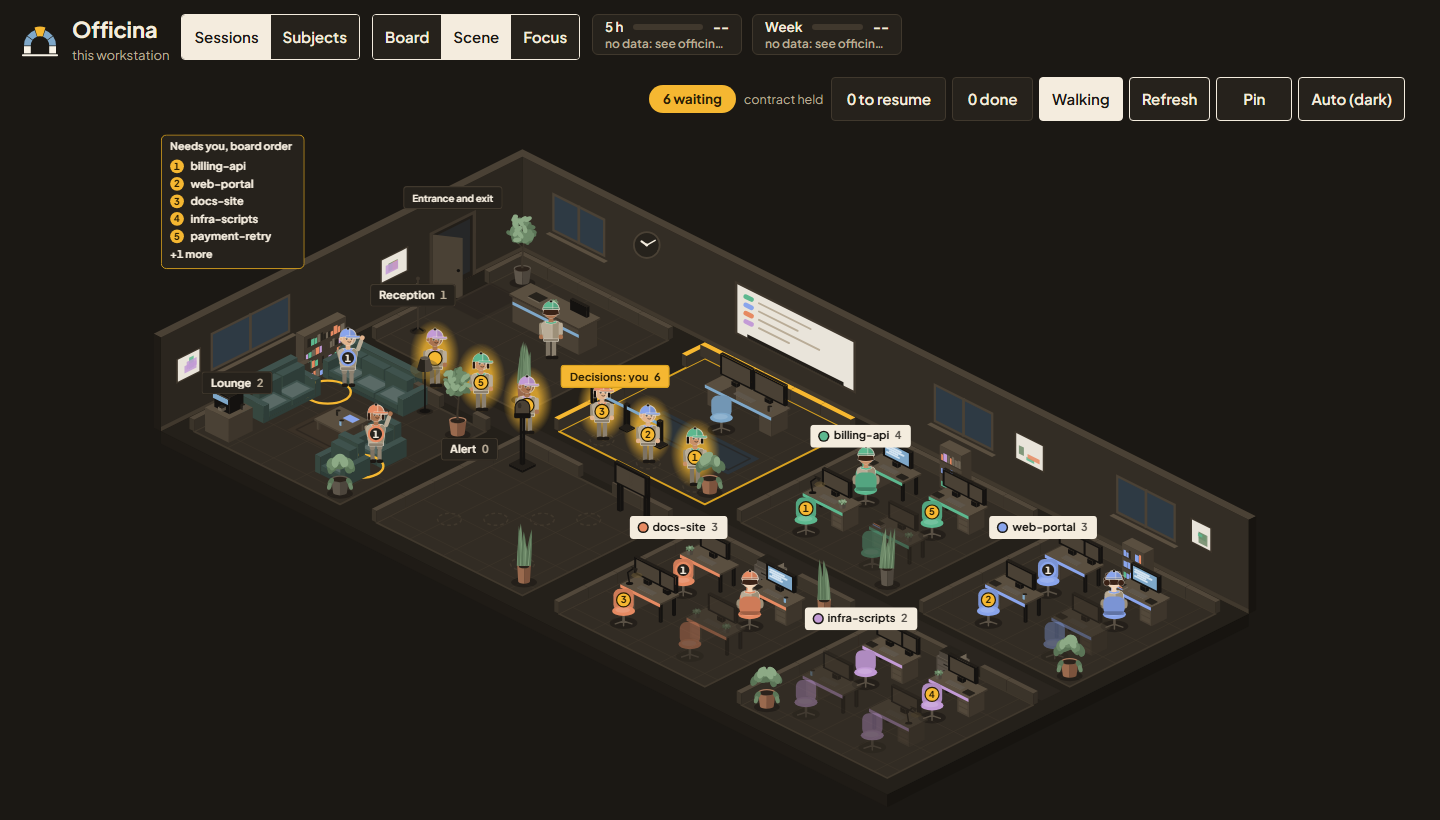
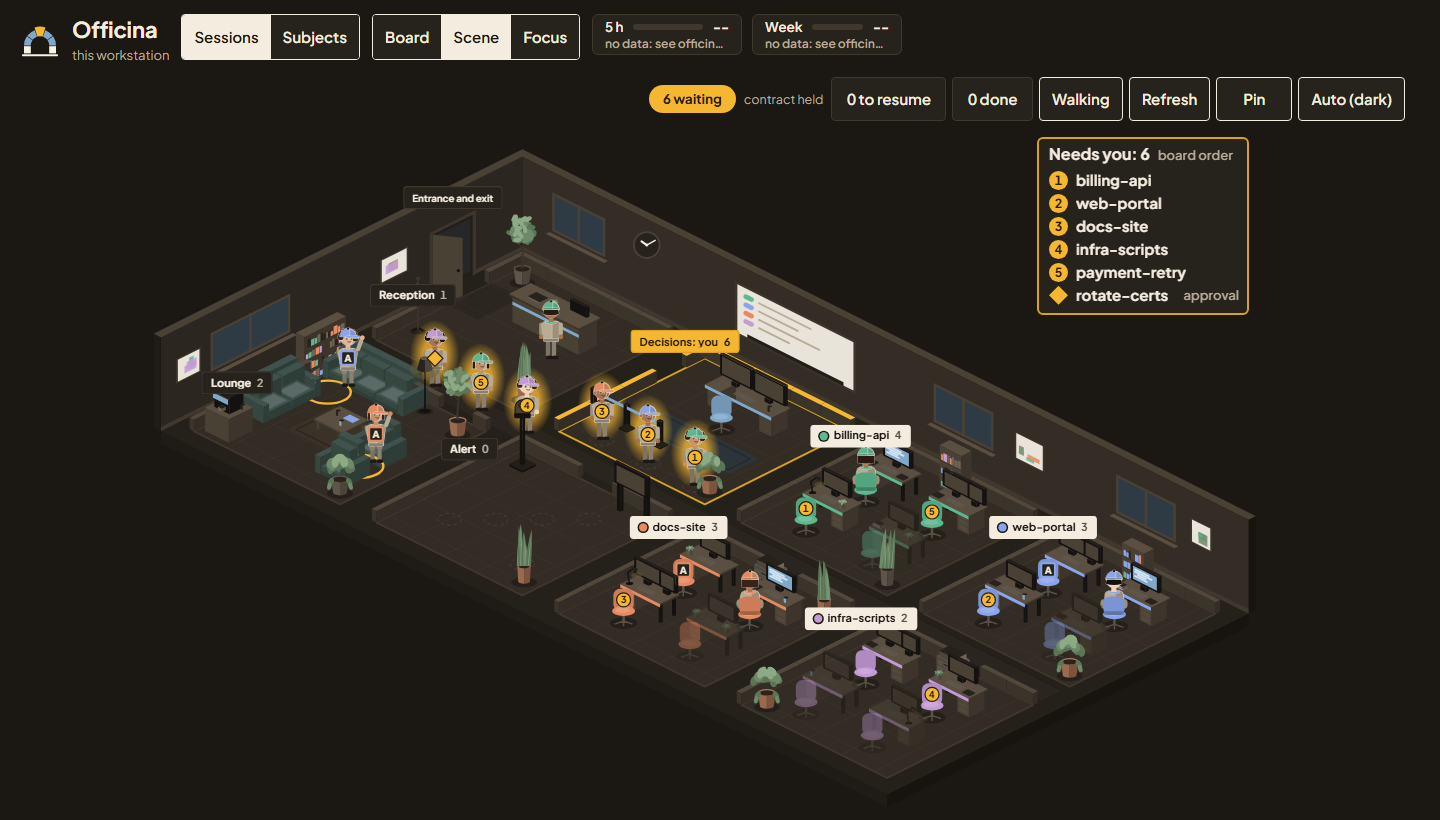
docs(ui): describe the register, the desk letters and badges above the floor
README and CHANGELOG for story 4.17; the scene's README screenshots and
walking demo rendered again with `pnpm readme-assets`.

diff --git a/README.md b/README.md
@@ -506,9 +506,9 @@ The window's first view is now called **Sessions**; it has three modes, **Board*
 **Scene** draws the floor of a small company, furnished, scaled to fit the window, every live session an employee at its place:
 
 - **Reception**: a session just started, before its first prompt.
-- **The decision office**: everything that waits on you, queued in board order with its number on a ticket and a breathing halo (an amber ticket without a number for a wait on a relay approval alone); its register in the corner lists them.
-- **The offices**, one per project in the floor file's order, then by first appearance, remembered on this machine: after a restart, a project that still has a live session keeps its office and a session its desk, and the others are given up: a working session sits at its desk, back turned, screen lit. A session keeps its desk while it is away; the empty chair then shows its number. Beyond four desks a session stands by the office's plaque.
-- **The lounge**: your turn, a raised hand and the desk's number.
+- **The decision office**: everything that waits on you, queued in board order with its number on a round ticket and a breathing halo (an amber diamond without a number for a wait on a relay approval alone). The register over the scene's top-right corner says how many wait, "Needs you: N", and lists them in board order, one row per number key, an approval-only wait marked "approval"; it keeps its size whatever the floor's scale. Tickets are drawn above everything on the floor, so no furniture ever hides one.
+- **The offices**, one per project in the floor file's order, then by first appearance, remembered on this machine: after a restart, a project that still has a live session keeps its office and a session its desk, and the others are given up: a working session sits at its desk, back turned, screen lit. A session keeps its desk while it is away; the empty chair then shows its number while it waits, and its desk's letter while it rests in the lounge. Beyond four desks a session stands by the office's plaque.
+- **The lounge**: your turn, a raised hand and its desk's letter (A for an office's first desk) on a square tag. A digit on a round badge is always a board number, the key 1 to 9 that opens that session.
 - **The alert room**: every session in alert (below), in board order, with a halo in the alert colour. While anyone stands in it the room lights up: its floor, its hazard outline, its status board and its plaque turn to the alert colour, and its beacon lights, its glow breathing for two minutes and then steady, so nothing moves for as long as the alert lasts. A session whose data goes unknown keeps its place there, and the room stays lit.
 - **High priority**: the office of a project marked `priority = "high"` carries a "high priority" pill above its plaque.
 - **More offices**, when there are more than eight projects: the projects beyond the seventh share it.
@@ -525,7 +525,7 @@ Walking is off by default because of its cost: measured on the release with one 
 
 Every employee is a button: hover it or tab to it and its name shows above it. Click it, or press Enter or Space, and its **file** opens at the right edge of the sessions area, beside the scene when the window leaves room for it (on a wide screen), over it otherwise, never resizing it: the project (and "high priority" when the floor file says so), its number when it is one of the first nine waiting, where it is, its state with what it waits on, since when it waits ("since unknown" when Officina did not see the wait start), why it is in alert ("last known" while the data is unknown), its subject, its last prompt and the head and tail of its last answer. The file's actions are the board card's, with the same outcomes: **Bring to front** (it has the focus, so Enter then Enter brings a session forward from the keyboard), "Wrong window?", and "Copy attach command" for a background session. A session waiting on a relay approval shows the request and an **Open in Board** button: approvals are approved on their cards, with the pointer. Escape closes the file and puts the focus back on the employee, wherever it now stands; the file closes by itself when the session leaves the board.
 
-Tab walks reception, the decision office's queue and its register, the alert room, the offices, the lounge and More offices, in that order; the arrow keys move between the employees of one room and stop at its edge. Digit keys 1 to 9 bring the nth Needs you session to front, as on the board, alerted ones included. Where a room holds more than its places (the register's "+N more", an office's "+n" chip, a full lounge, reception or alert room, More offices), its button opens a list of those sessions in board order; each row opens that session's file, and Escape steps back to the list, then to the room's button.
+Tab walks reception, the decision office's queue, the alert room, the offices, the lounge and More offices, in that order; the arrow keys move between the employees of one room and stop at its edge. Digit keys 1 to 9 bring the nth Needs you session to front, as on the board, alerted ones included. Where a room holds more than its places (the "+n" at the end of the decision office's plaque, an office's "+n" chip, a full lounge, reception or alert room, More offices), its button opens a list of those sessions in board order; each row opens that session's file, and Escape steps back to the list, then to the room's button.
 
 Ended sessions leave the scene. The header counts them in every view and mode, "N to resume" and "N done" (within the board's Done window, which their tooltips name), and either opens Board mode on its column. The quota gauges and the relay's state stay in the header too.
 

diff --git a/CHANGELOG.md b/CHANGELOG.md
@@ -370,6 +370,14 @@ project uses [Semantic Versioning](https://semver.org/).
   session file docks beside the scene when the window leaves room for it
   (story 4.15).
 - No shadow under the scene's floor (story 4.15).
+- The scene reads in one glance (story 4.17): the register is fixed-size
+  overlay UI over the scene's top-right corner, its heading counting
+  everyone who waits ("Needs you: 6"), one row per number key, an
+  approval-only wait marked by an amber diamond and the word "approval";
+  it no longer shrinks with the floor at eight projects. A desk is named
+  by its letter on a square tag, so a digit on a round badge is always a
+  board number. The decision office's extra waits are a "+n" on its
+  plaque, which hangs at the office's back.
 
 - `officina doctor` prints complete blocks to paste, never fragments to
   merge by hand. For the hooks, the whole `"hooks"` key of the user
@@ -668,6 +676,9 @@ project uses [Semantic Versioning](https://semver.org/).
 
 ### Fixed
 
+- A waiting session's ticket could hide behind the alert room's beacon
+  when the queue reached the corridor: tickets are drawn above everything
+  on the floor (story 4.17).
 - Archiving a subject in the Subjects view left its ended session in To
   resume: the board now reads the subject's status, so the session moves
   to Done, tagged "subject archived", and comes back if the subject is
